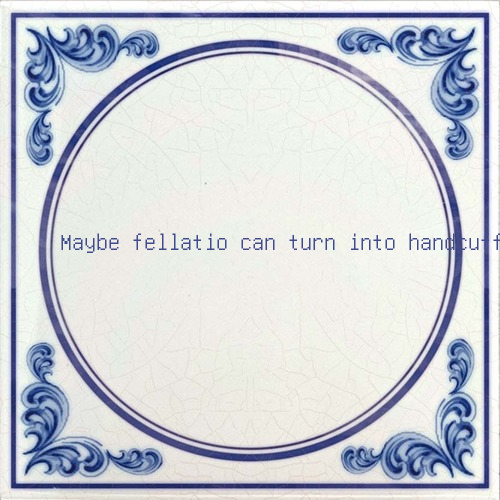
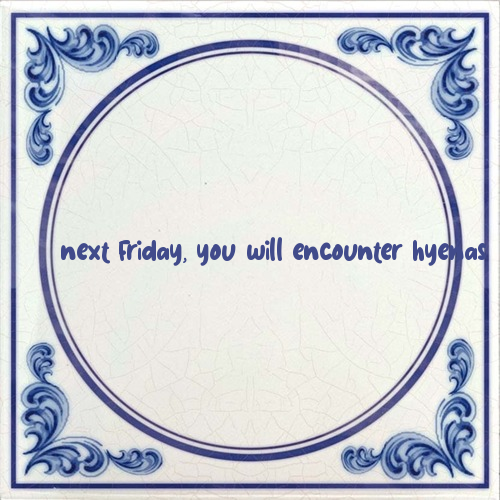
Support for multiline in images

Changed region(s): [[0.12, 0.45, 1.0, 0.54]]

diff --git a/main.py b/main.py
@@ -159,19 +159,52 @@ if __name__ == "__main__":
             font = os.path.join(os.path.join(current_dir, 'fonts'), random.choice(font_collection))
             img = ImageText(image, background=(255, 255, 255, 200)) # 200 = alpha
 
-            #write_text_box will split the text in many lines, based on box_width
-            #`place` can be 'left' (default), 'right', 'center' or 'justify'
-            #write_text_box will return (box_width, box_calculed_height) so you can
-            #know the size of the wrote text
-            img.write_text_box((60, 225), text, box_width=200, font_filename=font,
-                            font_size=24, color=color, place='justify')
+            if "\n" not in text:
+                #write_text_box will split the text in many lines, based on box_width
+                #`place` can be 'left' (default), 'right', 'center' or 'justify'
+                #write_text_box will return (box_width, box_calculed_height) so you can
+                #know the size of the wrote text
+                img.write_text_box((60, 225), text, box_width=200, font_filename=font,
+                                font_size=24, color=color, place='justify')
+            else:
+                nr_of_lines = text.count("\n") + 1
+                if nr_of_lines == 2:
+                    lines = text.splitlines()
+                    img.write_text_box((65, 200), lines[0], box_width=200, font_filename=font,
+                                font_size=24, color=color, place='justify')
+                    img.write_text_box((65, 235), lines[1], box_width=200, font_filename=font,
+                                font_size=24, color=color, place='justify')
+                elif nr_of_lines == 3:
+                    lines = text.splitlines()
+                    img.write_text_box((70, 190), lines[0], box_width=200, font_filename=font,
+                                font_size=24, color=color, place='justify')
+                    img.write_text_box((70, 225), lines[1], box_width=200, font_filename=font,
+                                font_size=24, color=color, place='justify')
+                    img.write_text_box((70, 260), lines[2], box_width=200, font_filename=font,
+                                font_size=24, color=color, place='justify')
+                elif nr_of_lines == 4:
+                    lines = text.splitlines()
+                    img.write_text_box((75, 180), lines[0], box_width=200, font_filename=font,
+                                font_size=24, color=color, place='justify')
+                    img.write_text_box((75, 215), lines[1], box_width=200, font_filename=font,
+                                font_size=24, color=color, place='justify')
+                    img.write_text_box((75, 250), lines[2], box_width=200, font_filename=font,
+                                font_size=24, color=color, place='justify')
+                    img.write_text_box((75, 285), lines[3], box_width=200, font_filename=font,
+                                font_size=24, color=color, place='justify')
+                elif nr_of_lines == 5:
+                    lines = text.splitlines()
+                    img.write_text_box((80, 170), lines[0], box_width=200, font_filename=font,
+                                font_size=24, color=color, place='justify')
+                    img.write_text_box((80, 205), lines[1], box_width=200, font_filename=font,
+                                font_size=24, color=color, place='justify')
+                    img.write_text_box((80, 240), lines[2], box_width=200, font_filename=font,
+                                font_size=24, color=color, place='justify')
+                    img.write_text_box((80, 275), lines[3], box_width=200, font_filename=font,
+                                font_size=24, color=color, place='justify')
+                    img.write_text_box((80, 310), lines[4], box_width=200, font_filename=font,
+                                font_size=24, color=color, place='justify')
 
-            #You don't need to specify text size: can specify max_width or max_height
-            # and tell write_text to fill the text in this space, so it'll compute font
-            # size automatically
-            #write_text will return (width, height) of the wrote text
-            """img.write_text((100, 200), text, font_filename=font,
-                        font_size='fill', max_height=150, color=color)"""
 
             img.save('temp.png')
 

diff --git a/function_collection.py b/function_collection.py
@@ -236,7 +236,7 @@ def template_outweigh():
 
 # Today
 def template_today():
-    return (horoscope() + random.choice(word_collections.sometimes) + ", you will encounter " + random.choice(word_collections.nouns_plural + word_collections.concepts))
+    return (horoscope() + random.choice(word_collections.sometimes).capitalize() + ", you will encounter " + random.choice(word_collections.nouns_plural + word_collections.concepts))
 
 # Do it
 def template_do_it():
